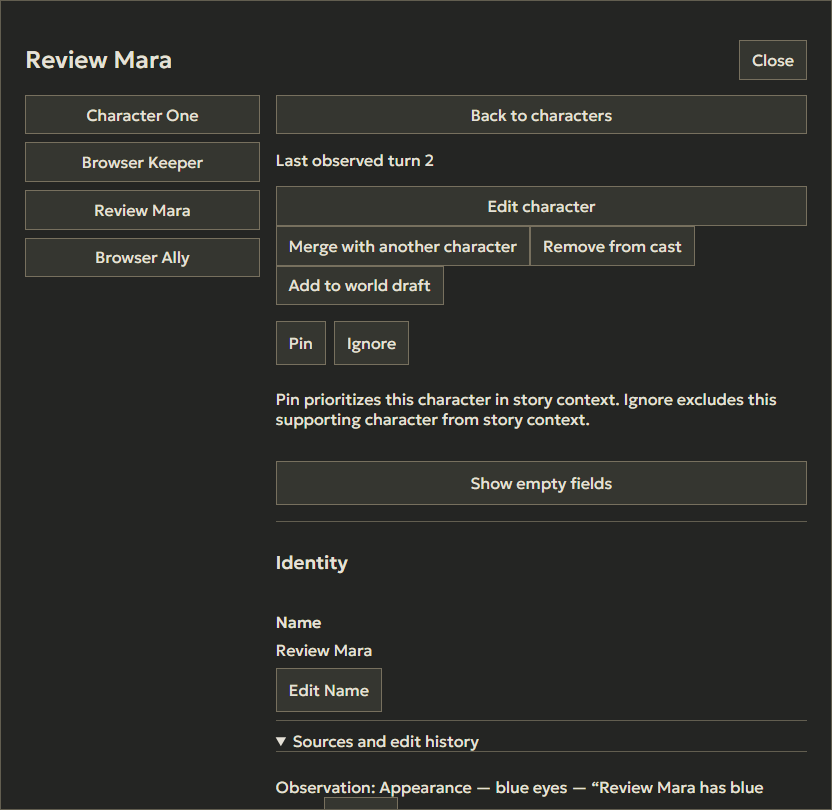
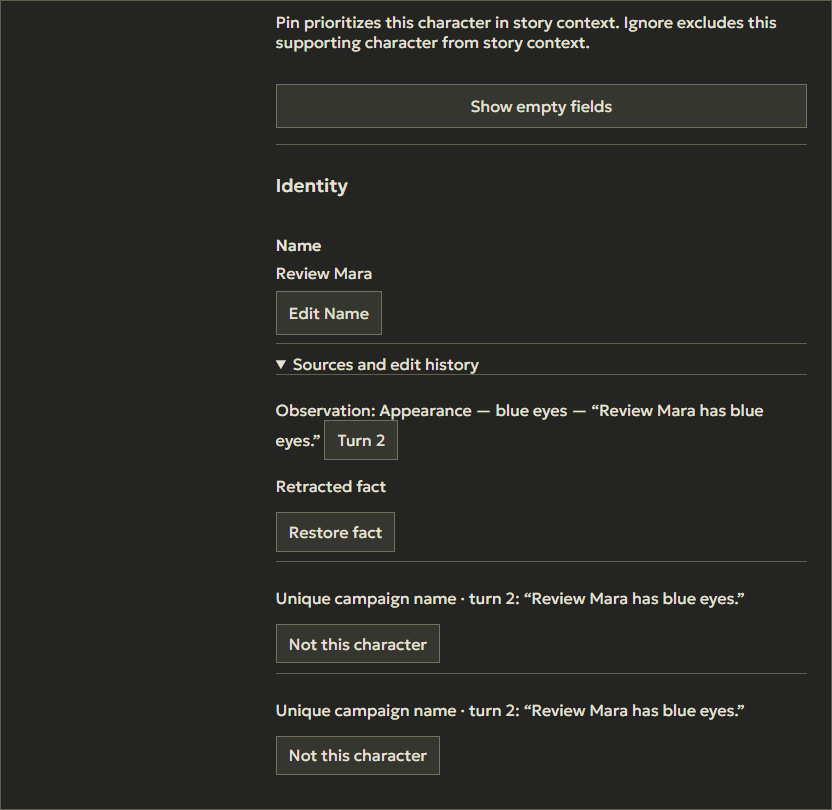
docs: clarify character acceptance evidence

diff --git a/tests/integration/world-library.integration.test.ts b/tests/integration/world-library.integration.test.ts
@@ -606,7 +606,10 @@ integration("World Library and campaign version integration", () => {
     await nextPage.locator("[data-tool-action='open-characters']").click();
     await nextSheet.getByRole("button", { name: "Review Mara", exact: true }).click();
     await nextSheet.getByText("Sources and edit history").click();
-    await browserExpect(nextSheet).toContainText("Retracted fact");
+    const retractedLabel = nextSheet.getByText("Retracted fact", { exact: true });
+    await browserExpect(retractedLabel).toBeVisible();
+    await retractedLabel.scrollIntoViewIfNeeded();
+    await browserExpect(retractedLabel).toBeInViewport();
     await nextSheet.screenshot({ path: resolve(screenshotRoot, "composed-web-next-retracted.png") });
     // Exercise all remaining sheet write paths against the same real database.
     const beforeAdded = await isolationRepository.current(scope);

diff --git a/docs/review/character-editor-usability-acceptance.md b/docs/review/character-editor-usability-acceptance.md
@@ -34,7 +34,7 @@ Chromium tab zoom was set and read back through a disposable extension; CSS zoom
 - **Passed:** `pnpm test:unit`: 451 files, 5,822 passed, 44 skipped, zero failed. On Windows, skipped cases are guarded by Linux/secure descriptor-anchored filesystem or POSIX permissions: archive-io 4, asset-archive-service 1, credential key 1, portable filesystem adapter 13, persisted filesystem 10, secure filesystem 13, preview session 2.
 - **Passed:** opt-in composed `world-library.integration.test.ts`: 37 passed, zero skipped. It uses actual API and isolated PostgreSQL with synthetic data. Both clients saved and undid all four character types, reloaded, fenced Added Character competing writes before and after refresh, and retracted later location evidence to restore an earlier State Edit.
 - **Passed with skips:** `pnpm test:integration` ran all 161 files against isolated PostgreSQL: 1,834 passed, 203 skipped, zero failed. Of the skips, 193 are Windows platform/secure-filesystem guards, one is an opt-in historical benchmark, two are optional old-reader rehearsals, six are opt-in known-failure baselines, and one is the composed browser case run separately above. These skipped cases are not passes. The cast, story-memory and world-library database suites executed; the Windows campaign ZIP placeholder in story-memory compatibility remains skipped.
-- **Passed:** the required and affected fixture-browser suites: 192 passed, zero skipped; after the short-viewport CSS change, the four affected Web-Next/native-zoom suites passed 10/10 and the additional Nexus geometry case passed. The original run failed 34 cases and the next run failed one; their corrected selectors and the keyboard focus regression were rerun as recorded in the task report.
+- **Passed:** the complete required and affected fixture-browser suites were rerun against production source at `63cf1618`: 192 passed, zero skipped. This run predates subsequent whole-branch review fixes. The original run failed 34 cases and the next run failed one; their corrected selectors and the keyboard focus regression were rerun as recorded in the task report. The composed screenshot was recaptured after scrolling the retraction label into view.
 - **Skipped:** physical mobile keyboard and live text model/provider; fixture browsers, native desktop Chromium zoom and deterministic provider are not evidence of either.
 
 Task 3b intentionally changed the initial retry design: the job stores a cast fingerprint, not its fiction snapshot. If cast authority changes, including tracking catching up, recapture fails stale and a fresh job is required; unchanged V2 keeps its frozen protocol. Operators must install V3-compatible API and worker readers throughout the fleet before enabling V3 enqueue and retain them while V3 jobs or turns remain. No fleet capability handshake guarantees that ordering. See [ADR 0045](../architecture/0045-current-state-edits-yield-to-newer-story-evidence.md) and [release notes](state-edit-precedence-release-notes.md).
